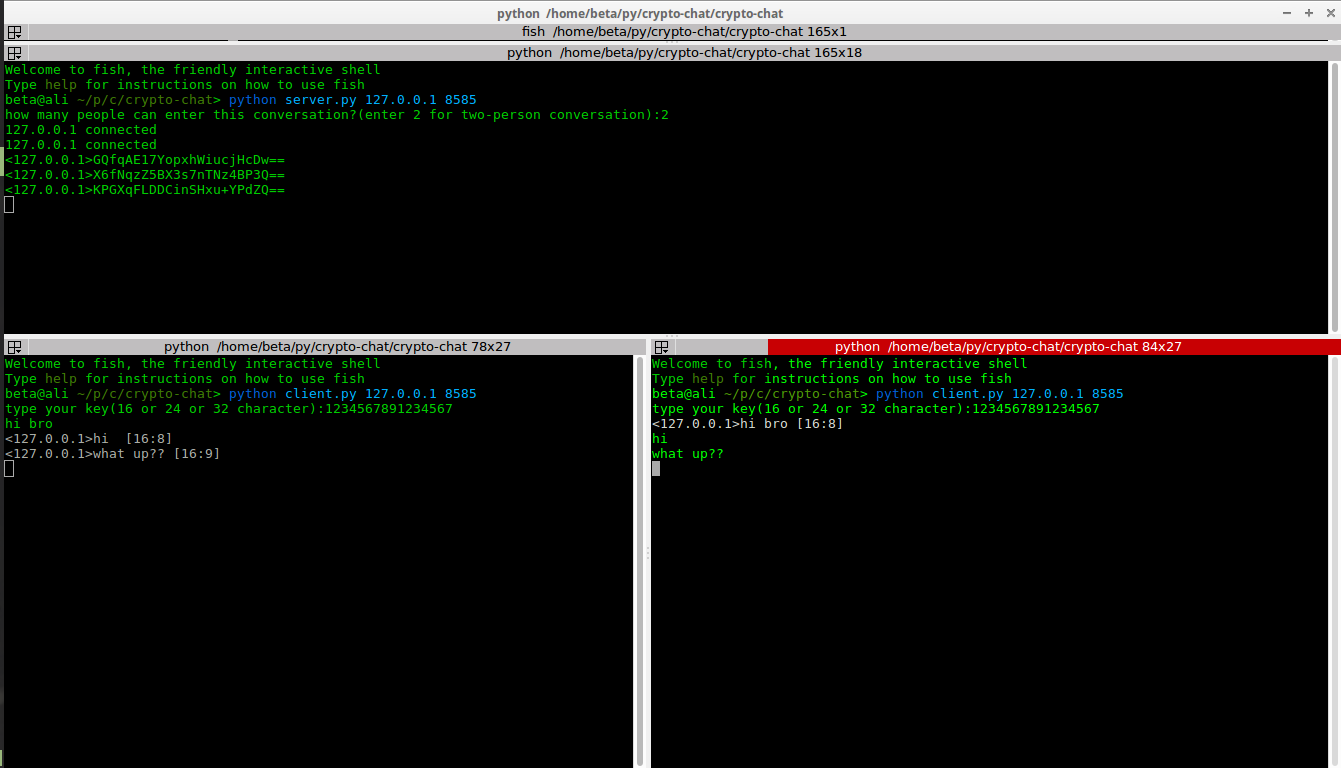
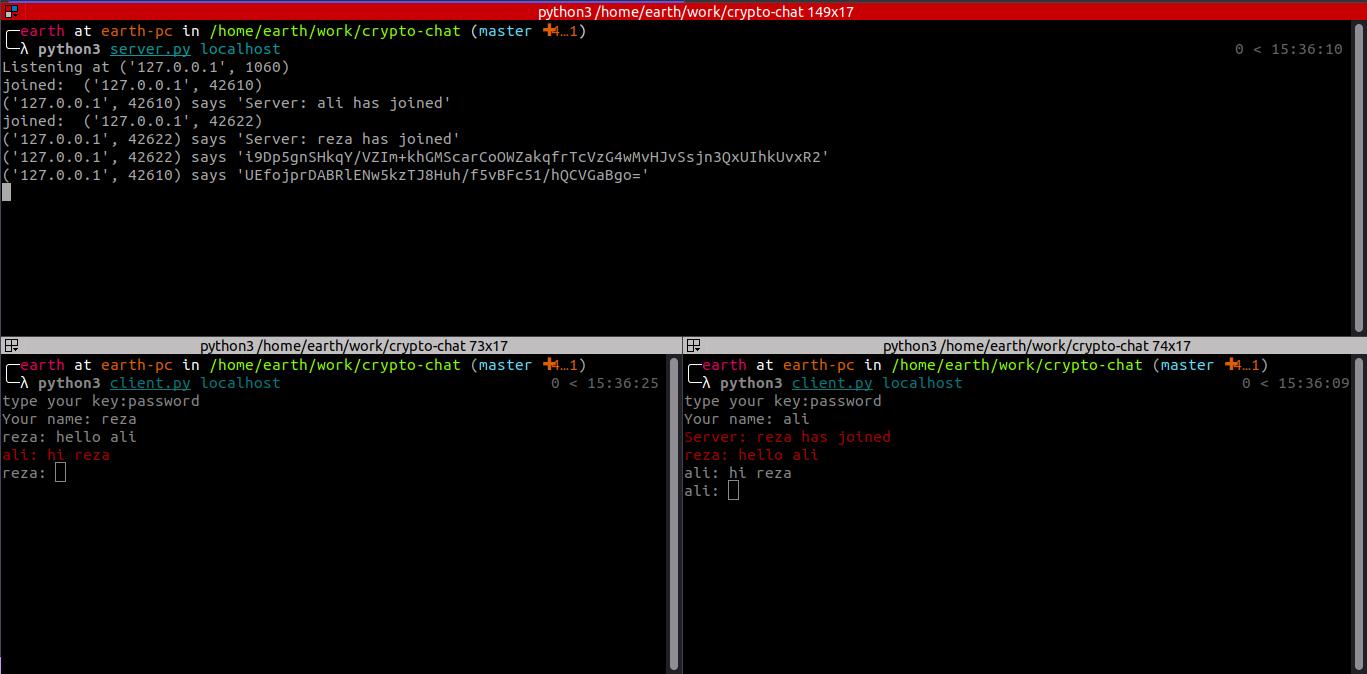
a lot of changes migrate to python3 better performance

Changed region(s): [[0.0, 0.0, 1.0, 1.0]]

diff --git a/client.py b/client.py
@@ -1,53 +1,118 @@
-import socket
-import select
-import sys
-from termcolor import colored
-from Crypto.Cipher import AES
+import argparse
 import base64
 import datetime
-secret_key = raw_input('type your key(16 or 24 or 32 character):')
-if len(secret_key) not in [16,24,32]:
-    print colored('Your key must be 16 or 24 characters long','red')
-    secret_key = raw_input('type your key(16 or 24 or 32 or 32 character):')
-def en_text(y):
-    rj = len(y)
-    while rj%16!=0:
-            rj += 1
-    msg_text = y.rjust(rj)
-    cipher = AES.new(secret_key,AES.MODE_ECB) 
-    encoded = base64.b64encode(cipher.encrypt(msg_text))
-    decoded = cipher.decrypt(base64.b64decode(encoded))
-    return encoded
-def de_text(y):
-    cipher = AES.new(secret_key,AES.MODE_ECB)
-    decoded = cipher.decrypt(base64.b64decode(y))
-    return decoded
-server = socket.socket(socket.AF_INET, socket.SOCK_STREAM)
-if len(sys.argv) != 3:
-    print "Correct usage: script, IP address, port number"
-    exit()
-IP_address = str(sys.argv[1])
-Port = int(sys.argv[2])
-server.connect((IP_address, Port))
-while True:
-    sockets_list = [sys.stdin, server]
-    read_sockets,write_socket, error_socket = select.select(sockets_list,[],[])
- 
-    for socks in read_sockets:
-        if socks == server:
-            message = socks.recv(2048)
-            message_s = message.split('^')
-            message = message_s[1]
-            time = datetime.datetime.now()
-            message = message_s[0] + de_text(message).replace('\n','').replace(' ','').replace('&',' ')+' ['+str(time.hour)+':'+str(time.minute)+']'
-            print colored(message,'white')
-        else:
-            message = sys.stdin.readline()
-            message = message  
-            message = message.replace(' ','&')
-            message = en_text(message)
-            server.send(message)
-            # sys.stdout.write("<You>")
-            # sys.stdout.write(de_text(message).replace(' ',''))
+import hashlib
+import os
+import socket
+import sys
+import threading
+
+from Crypto import Random
+from Crypto.Cipher import AES
+from termcolor import colored
+
+
+class AESCipher(object):
+    def __init__(self, key):
+        self.bs = AES.block_size    
+        self.key = hashlib.sha256(key.encode()).digest()
+
+    def encrypt(self, raw):
+        raw = self._pad(raw)
+        iv = Random.new().read(AES.block_size)
+        cipher = AES.new(self.key, AES.MODE_CBC, iv)
+        return base64.b64encode(iv + cipher.encrypt(raw.encode()))
+
+    def decrypt(self, enc):
+        enc = base64.b64decode(enc)
+        iv = enc[: AES.block_size]
+        cipher = AES.new(self.key, AES.MODE_CBC, iv)
+        return self._unpad(cipher.decrypt(enc[AES.block_size :])).decode("utf-8")
+
+    def _pad(self, s):
+        return s + (self.bs - len(s) % self.bs) * chr(self.bs - len(s) % self.bs)
+
+    @staticmethod
+    def _unpad(s):
+        return s[: -ord(s[len(s) - 1 :])]
+
+
+class Send(threading.Thread):
+    def __init__(self, sock, name):
+        super().__init__()
+        self.sock = sock
+        self.name = name
+
+    def run(self):
+        while True:
+            print("{}: ".format(self.name), end="")
             sys.stdout.flush()
-server.close()
+            message = sys.stdin.readline()[:-1]
+            if message == "QUIT":
+                self.sock.sendall(
+                    "Server: {} has left the chat.".format(self.name).encode("utf-8")
+                )
+                break
+            else:
+                message = enc.encrypt("{}: {}".format(self.name, message))
+                self.sock.sendall(message)
+        self.sock.close()
+        os._exit(0)
+
+
+class Receive(threading.Thread):
+    def __init__(self, sock, name):
+        super().__init__()
+        self.sock = sock
+        self.name = name
+        self.messages = None
+
+    def run(self):
+        while True:
+            message = self.sock.recv(1024)
+            if message:
+                try:
+                    message = str(enc.decrypt(message))
+                except:
+                    message = message.decode("utf-8")
+                print("\r{}\n{}: ".format(colored(message, "red"), self.name), end="")
+            else:
+                print("\nlost connection...")
+                self.sock.close()
+                os._exit(0)
+
+
+class Client:
+    def __init__(self, host, port):
+        self.host = host
+        self.port = port
+        self.sock = socket.socket(socket.AF_INET, socket.SOCK_STREAM)
+        self.name = None
+        self.messages = None
+
+    def start(self):
+        self.sock.connect((self.host, self.port))
+        self.name = input("Your name: ")
+        send = Send(self.sock, self.name)
+        receive = Receive(self.sock, self.name)
+        send.start()
+        receive.start()
+        self.sock.sendall("Server: {} has joined".format(self.name).encode("utf-8"))
+        return receive
+
+
+def main(host, port):
+    client = Client(host, port)
+    client.start()
+
+
+if __name__ == "__main__":
+    parser = argparse.ArgumentParser()
+    parser.add_argument("host")
+    parser.add_argument(
+        "-p", metavar="PORT", type=int, default=1060, help="TCP port (default 1060)"
+    )
+    args = parser.parse_args()
+    secret_key = input('type your key: ')
+    enc = AESCipher(secret_key)
+    main(args.host, args.p)

diff --git a/server.py b/server.py
@@ -1,46 +1,79 @@
+import argparse
+import os
 import socket
-import select
-import sys
-from thread import *
-clients_co = input('how many people can enter this conversation?(enter 2 for two-person conversation):') 
-server = socket.socket(socket.AF_INET, socket.SOCK_STREAM)
-server.setsockopt(socket.SOL_SOCKET, socket.SO_REUSEADDR, 1)
-if len(sys.argv) != 3:
-    print "Correct usage: script, IP address, port number"
-    exit()
-IP_address = str(sys.argv[1])
-Port = int(sys.argv[2])
-server.bind((IP_address, Port))
-server.listen(clients_co)
-list_of_clients = []
-def clientthread(conn, addr):
+import threading
+
+class Server(threading.Thread):
+    def __init__(self, host, port):
+        super().__init__()
+        self.connections = []
+        self.host = host
+        self.port = port
+
+    def run(self):
+        sock = socket.socket(socket.AF_INET, socket.SOCK_STREAM)
+        sock.setsockopt(socket.SOL_SOCKET, socket.SO_REUSEADDR, 1)
+        sock.bind((self.host, self.port))
+        sock.listen(1)
+        print("Listening at", sock.getsockname())
+        while True:
+            sc, sockname = sock.accept()
+            server_socket = ServerSocket(sc, sockname, self)
+            server_socket.start()
+            self.connections.append(server_socket)
+            print("joined: ", sc.getpeername())
+
+    def broadcast(self, message, source):
+        for connection in self.connections:
+            if connection.sockname != source:
+                connection.send(message)
+
+    def remove_connection(self, connection):
+        self.connections.remove(connection)
+
+
+class ServerSocket(threading.Thread):
+    def __init__(self, sc, sockname, server):
+        super().__init__()
+        self.sc = sc
+        self.sockname = sockname
+        self.server = server
+
+    def run(self):
+        while True:
+            message = self.sc.recv(1024).decode("utf-8")
+            if message:
+                print("{} says {!r}".format(self.sockname, message))
+                self.server.broadcast(message, self.sockname)
+            else:
+                print("{} has closed the connection".format(self.sockname))
+                self.sc.close()
+                server.remove_connection(self)
+                return
+
+    def send(self, message):
+        self.sc.sendall(message.encode("utf-8"))
+
+
+def exit(server):
     while True:
-            try:
-                message = conn.recv(2048)
-                if message:
-                    print "<" + addr[0] + ">" + message
-                    message_to_send = "<" + addr[0] + ">^" + message
-                    broadcast(message_to_send, conn)
-                else:
-                    remove(conn)
-            except:
-                continue
-def broadcast(message, connection):
-    for clients in list_of_clients:
-        if clients!=connection:
-            try:
-                clients.send(message)
-            except:
-                clients.close()
-                remove(clients)
-def remove(connection):
-    if connection in list_of_clients:
-        list_of_clients.remove(connection)
-while True:
-    conn, addr = server.accept()
-    if len(list_of_clients) < 2:
-        list_of_clients.append(conn)
-        print addr[0] + " connected"
-        start_new_thread(clientthread,(conn,addr))    
-conn.close()
-server.close()
+        ipt = input("")
+        if ipt == "q":
+            print("Closing all connections...")
+            for connection in server.connections:
+                connection.sc.close()
+            print("Shutting down the server...")
+            os._exit(0)
+
+
+if __name__ == "__main__":
+    parser = argparse.ArgumentParser(description="Chatroom Server")
+    parser.add_argument("host", help="Interface the server listens at")
+    parser.add_argument(
+        "-p", metavar="PORT", type=int, default=1060, help="TCP port (default 1060)"
+    )
+    args = parser.parse_args()
+    server = Server(args.host, args.p)
+    server.start()
+    exit = threading.Thread(target=exit, args=(server,))
+    exit.start()

diff --git a/readme.md b/readme.md
@@ -1,6 +1,35 @@
-python server.py [IP address] [Port number]
+## Simple python chat room, encrypted with using AES128
+## How to Run? 
+Run the `server.py` script from the command line. 
 
-python client.py [Server IP address] [Server Port number]
+Usage: ```python3 server.py <host> [-p PORT]```
+
+Arguments:
+- ```host```: Interface the server listens at. Can be a hostname, or an IP address.
+- ```-p PORT```: TCP port the server listens at (default 1060)
+
+For example:
+
+```bash
+$ python3 server.py localhost
+Listening at ('127.0.0.1', 1060)
+```
+
+Then run the `client.py` script from the command line and enter your password(in a separate terminal window). 
+
+Usage: ```python3 client.py <host> [-p PORT]```
+
+Arguments:
+- ```host```: Interface the server listens at. Can be a hostname, or an IP address.
+- ```-p PORT```: TCP port the server listens at (default 1060)
+
+For example:
+
+```bash
+$ python3 client.py localhost
+type your key: password
+Your name: 
+```
+[chat room section is based on this repository](https://github.com/zeyu2001/pychat)
 
 ![alt text](https://github.com/alireza-roshanasan/crypto-chat/blob/master/pic.png)
-
